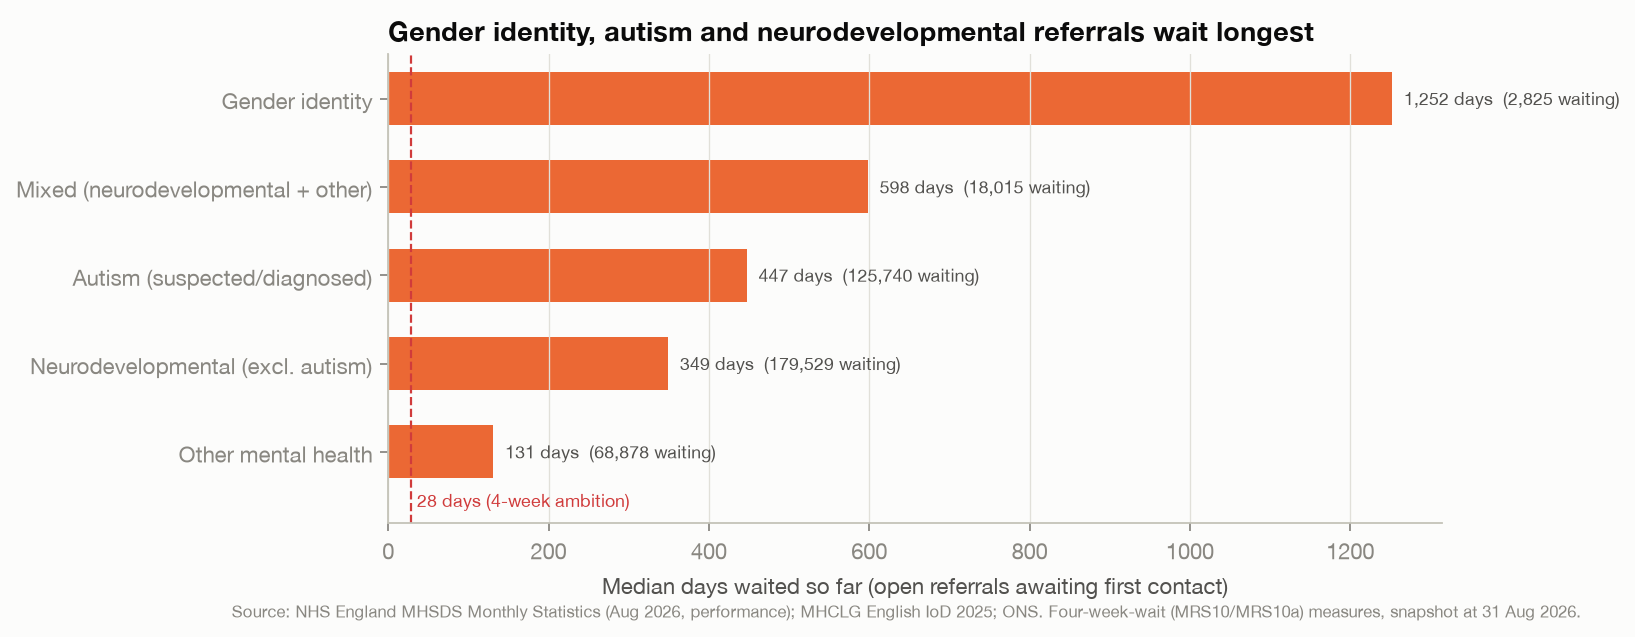
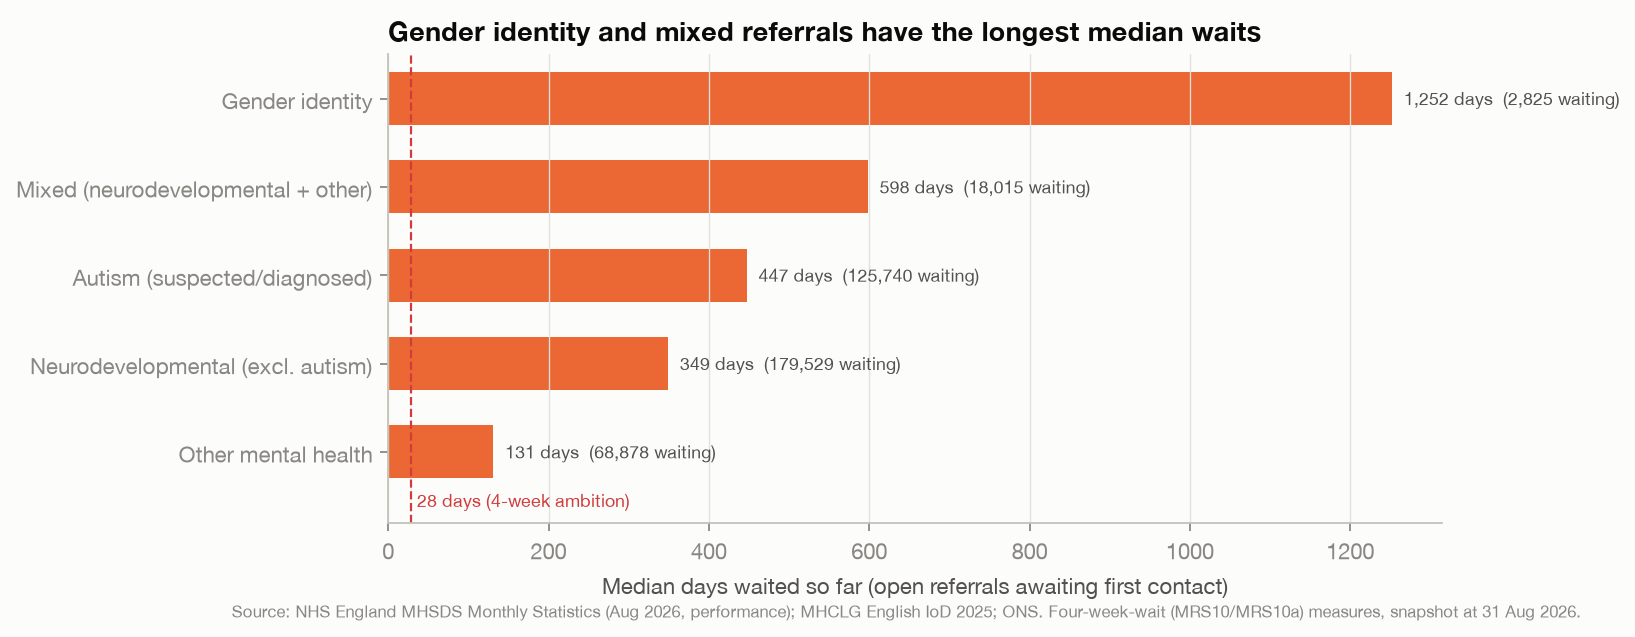
Fix wording on waits and referral counts

Changed region(s): [[0.3431, 0.0298, 0.811, 0.0895]]

diff --git a/app/streamlit_app.py b/app/streamlit_app.py
@@ -23,10 +23,10 @@ SEQ_ORANGE = ["#fde0d2", "#f9b99c", "#f39268", "#eb6834", "#c4501f", "#963b14"]
 
 METRICS = {
     "access_rate_per_100k": ("Access per 100,000 under-18s (12 months)", SEQ_BLUE, ",.0f"),
-    "median_wait_still_waiting_days": ("Median days waited - children still waiting", SEQ_ORANGE, ",.0f"),
+    "median_wait_still_waiting_days": ("Median days waited - referrals still waiting", SEQ_ORANGE, ",.0f"),
     "median_wait_first_contact_days": ("Median days to first contact - children seen", SEQ_ORANGE, ",.0f"),
-    "pct_clock_stops_within_4w": ("% helped within 4 weeks (Jun-Aug 2026)", SEQ_BLUE, ".0f"),
-    "still_waiting_count": ("Children still waiting for first contact", SEQ_ORANGE, ",.0f"),
+    "pct_clock_stops_within_4w": ("% of those helped who got help within 4 weeks (Jun-Aug 2026)", SEQ_BLUE, ".0f"),
+    "still_waiting_count": ("Referrals still waiting for first contact", SEQ_ORANGE, ",.0f"),
     "idaci_score": ("Child income deprivation (IDACI)", SEQ_ORANGE, ".2f"),
 }
 
@@ -85,8 +85,8 @@ def main() -> None:
     # ---- headline tiles
     k = st.columns(4)
     k[0].metric("Children seen (12 months)", f"{eng['cyp_accessed_12m']:,.0f}")
-    k[1].metric("Helped within 4 weeks", f"{eng['pct_clock_stops_within_4w']:.0f}%")
-    k[2].metric("Waiting for first contact", f"{eng['open_waiting_first_contact']:,.0f}")
+    k[1].metric("Of those helped, within 4 weeks", f"{eng['pct_clock_stops_within_4w']:.0f}%")
+    k[2].metric("Referrals awaiting contact", f"{eng['open_waiting_first_contact']:,.0f}")
     k[3].metric("Median wait so far", f"{eng['median_open_wait_days']:,.0f} days")
 
     # ---- map + funnel

diff --git a/src/access_inequalities/analysis.py b/src/access_inequalities/analysis.py
@@ -108,7 +108,7 @@ def fig_maps(sub: pd.DataFrame, geo: gpd.GeoDataFrame) -> None:
     _choropleth(axes[0], g, "access_rate_per_100k", style.SEQUENTIAL[1:], "Access rate per 100,000 under-18s",
                 lambda v: f"{v:,.0f}")
     _choropleth(axes[1], g, "median_wait_still_waiting_days", ORANGE_RAMP,
-                "Median days waited by children still waiting", lambda v: f"{v:,.0f}")
+                "Median days waited by referrals still waiting", lambda v: f"{v:,.0f}")
     fig.suptitle("Where children get seen - and where they wait", x=0.01, ha="left", fontweight="bold")
     style.source_note(fig, SOURCE + " 2026 Sub-ICB boundaries dissolved from LSOA 2021 (ONS).")
     fig.savefig(config.FIGURES / "02_maps_access_and_waits.png")
@@ -181,7 +181,7 @@ def fig_pathway_waits(path: pd.DataFrame) -> None:
     ax.set_yticks(y, df.index)
     ax.grid(axis="y", visible=False)
     ax.set_xlabel("Median days waited so far (open referrals awaiting first contact)")
-    ax.set_title("Gender identity, autism and neurodevelopmental referrals wait longest")
+    ax.set_title("Gender identity and mixed referrals have the longest median waits")
     style.source_note(fig, SOURCE + " Four-week-wait (MRS10/MRS10a) measures, snapshot at 31 Aug 2026.")
     fig.savefig(config.FIGURES / "05_waits_by_pathway.png")
     style.close(fig)

diff --git a/README.md b/README.md
@@ -24,14 +24,14 @@ Part 1 of a three-project portfolio on children and young people's mental health
 
 | | Finding | Evidence |
 |---|---|---|
-| ⏱ | **Only 24% of children got meaningful help within 4 weeks** (Jun–Aug 2026). **279,604** referrals were still waiting for a first contact, with a median wait so far of **290 days**. | MRS08b, MRS10, MRS10a |
-| 🧩 | **Neurodevelopmental, autism and gender-identity referrals wait longest**: medians of **349, 447 and 1,252 days** so far, against **131 days** for other mental-health referrals. | MRS10a by pathway |
-| 🌍 | **Asian children are seen at 0.43× the rate of White children**, and **Black children at 0.66×** (age-standardised; 95% CIs 0.43–0.44 and 0.65–0.66). | MHS95b, rate ratios |
+| ⏱ | Of the referrals that received meaningful help in Jun–Aug 2026, **only 24% got it within 4 weeks**. **279,604** open referrals were still waiting for a first contact, with a median wait so far of **290 days**. These count referrals, and one child can have more than one. | MRS08b, MRS10, MRS10a |
+| 🧩 | **Gender-identity referrals have the longest median wait so far (1,252 days)**, then mixed referrals (**598**), autism (**447**) and other neurodevelopmental referrals (**349**), against **131 days** for other mental-health referrals. The groups overlap. | MRS10a by pathway |
+| 🌍 | **Recorded access for Asian children is 0.43× the rate for White children**, and **0.66× for Black children** (age-standardised; 95% CIs 0.43–0.44 and 0.65–0.66). | MHS95b, rate ratios |
 | 📉 | Access **rises with deprivation**: 8,130 vs 6,061 per 100k (most vs least deprived quintile, rate ratio **1.34**; SII **+2,557 per 100k**). Need is also higher in deprived areas, so this does not by itself show fair provision ([limitations](docs/limitations_and_ethics.md)). | MHS95b, SII |
-| 🗺 | **Postcode variation is 3.5-fold**: from 4,521 to 15,821 children seen per 100k. Even after widening limits for over-dispersion (φ ≈ 281), **11 of 106 areas** sit outside the 95% funnel limits. | Funnel plot |
-| ⚖ | The deprivation gap in **waits** is small: 23.7% vs 25.1% helped within 4 weeks (Core20 vs the rest, *p* < 0.001). Across areas, deprivation does **not** predict how long children wait (Spearman ρ = −0.16, 95% CI −0.35 to 0.04). Waits look driven by **local service capacity, not area need**. | z-test, bootstrap ρ |
+| 🗺 | **Estimated access varies 3.5-fold** between areas: from 4,521 to 15,821 children seen per 100k, using estimated under-18 populations. Even after widening limits for over-dispersion (φ ≈ 281), **11 of 106 areas** sit outside the 95% funnel limits. | Funnel plot |
+| ⚖ | The deprivation gap in **waits** is small: 23.7% vs 25.1% helped within 4 weeks (Core20 vs the rest, *p* < 0.001). Across areas there is **no clear link** between deprivation and how long referrals wait (Spearman ρ = −0.16, 95% CI −0.35 to 0.04), though a weak one can't be ruled out. The causes of the variation, including local capacity, were not tested. | z-test, bootstrap ρ |
 
-<p align="center"><img src="reports/figures/02_maps_access_and_waits.png" width="900" alt="Two maps of England: access rate per 100,000 under-18s, and median days waited by children still waiting, by Sub-ICB"></p>
+<p align="center"><img src="reports/figures/02_maps_access_and_waits.png" width="900" alt="Two maps of England: access rate per 100,000 under-18s, and median days waited by referrals still waiting, by Sub-ICB"></p>
 
 <details>
 <summary><b>More figures</b> (funnel plot, equity breakdowns, deprivation, waits by pathway)</summary>

diff --git a/docs/data_sources.md b/docs/data_sources.md
@@ -6,7 +6,7 @@ personally identifiable data is used, downloaded or stored at any point.
 | # | Dataset | Publisher | Used for | Granularity | Period | Licence |
 |---|---|---|---|---|---|---|
 | 1 | [Mental Health Services Monthly Statistics, Performance August 2026](https://digital.nhs.uk/data-and-information/publications/statistical/mental-health-services-monthly-statistics/performance-august-2026) – main data file (`MHSDS Data_AugPerf_2026.zip`) | NHS England | Children's access metric (MHS95), waits to first contact (MHS130–135), equity breakdowns | Sub-ICB, ICB, region, England; England by IMD, ethnicity, age, gender | 12 months to 31 Aug 2026 (MHS95); Jun–Aug 2026 (waits) | OGL v3.0 |
-| 2 | Same publication – four-week-wait file (`MHSDS Data_4WW_AugPerf_2026.zip`) | NHS England | % of children helped within 4 weeks (MRS08–08b), open waiting list (MRS10–10b), referral pathway | Sub-ICB, ICB, England by IMD Core20 and pathway | Jun–Aug 2026; snapshot at 31 Aug 2026 | OGL v3.0 |
+| 2 | Same publication – four-week-wait file (`MHSDS Data_4WW_AugPerf_2026.zip`) | NHS England | % of helped referrals that got help within 4 weeks (MRS08–08b), open waiting list (MRS10–10b), referral pathway | Sub-ICB, ICB, England by IMD Core20 and pathway | Jun–Aug 2026; snapshot at 31 Aug 2026 | OGL v3.0 |
 | 3 | [English Indices of Deprivation 2025](https://www.gov.uk/government/statistics/english-indices-of-deprivation-2025) – File 7 | Ministry of Housing, Communities & Local Government | IMD score/decile, IDACI (child income deprivation), 0–15 population | LSOA 2021 (33,755 neighbourhoods) | Indicators mostly 2022–23; population mid-2022 | OGL v3.0 |
 | 4 | [LSOA (2021) to Sub-ICB Location to ICB to NHS England Region to LAD (April 2026) lookup](https://geoportal.statistics.gov.uk/) (`LSOA21_SICBL26_ICB26_NHSER26_LAD26`) | Office for National Statistics | Allocating every LSOA to its April 2026 Sub-ICB, ICB and region | LSOA 2021 | April 2026 | OGL v3.0 |
 | 5 | [LSOA (Dec 2021) boundaries EW BSC V4 with RUC 2021](https://geoportal.statistics.gov.uk/) (`LSOA_2021_EW_BSC_V4_RUC`) | Office for National Statistics | Map polygons (dissolved to Sub-ICB); rural–urban classification | LSOA 2021 | 2021 | OGL v3.0; contains OS data |
